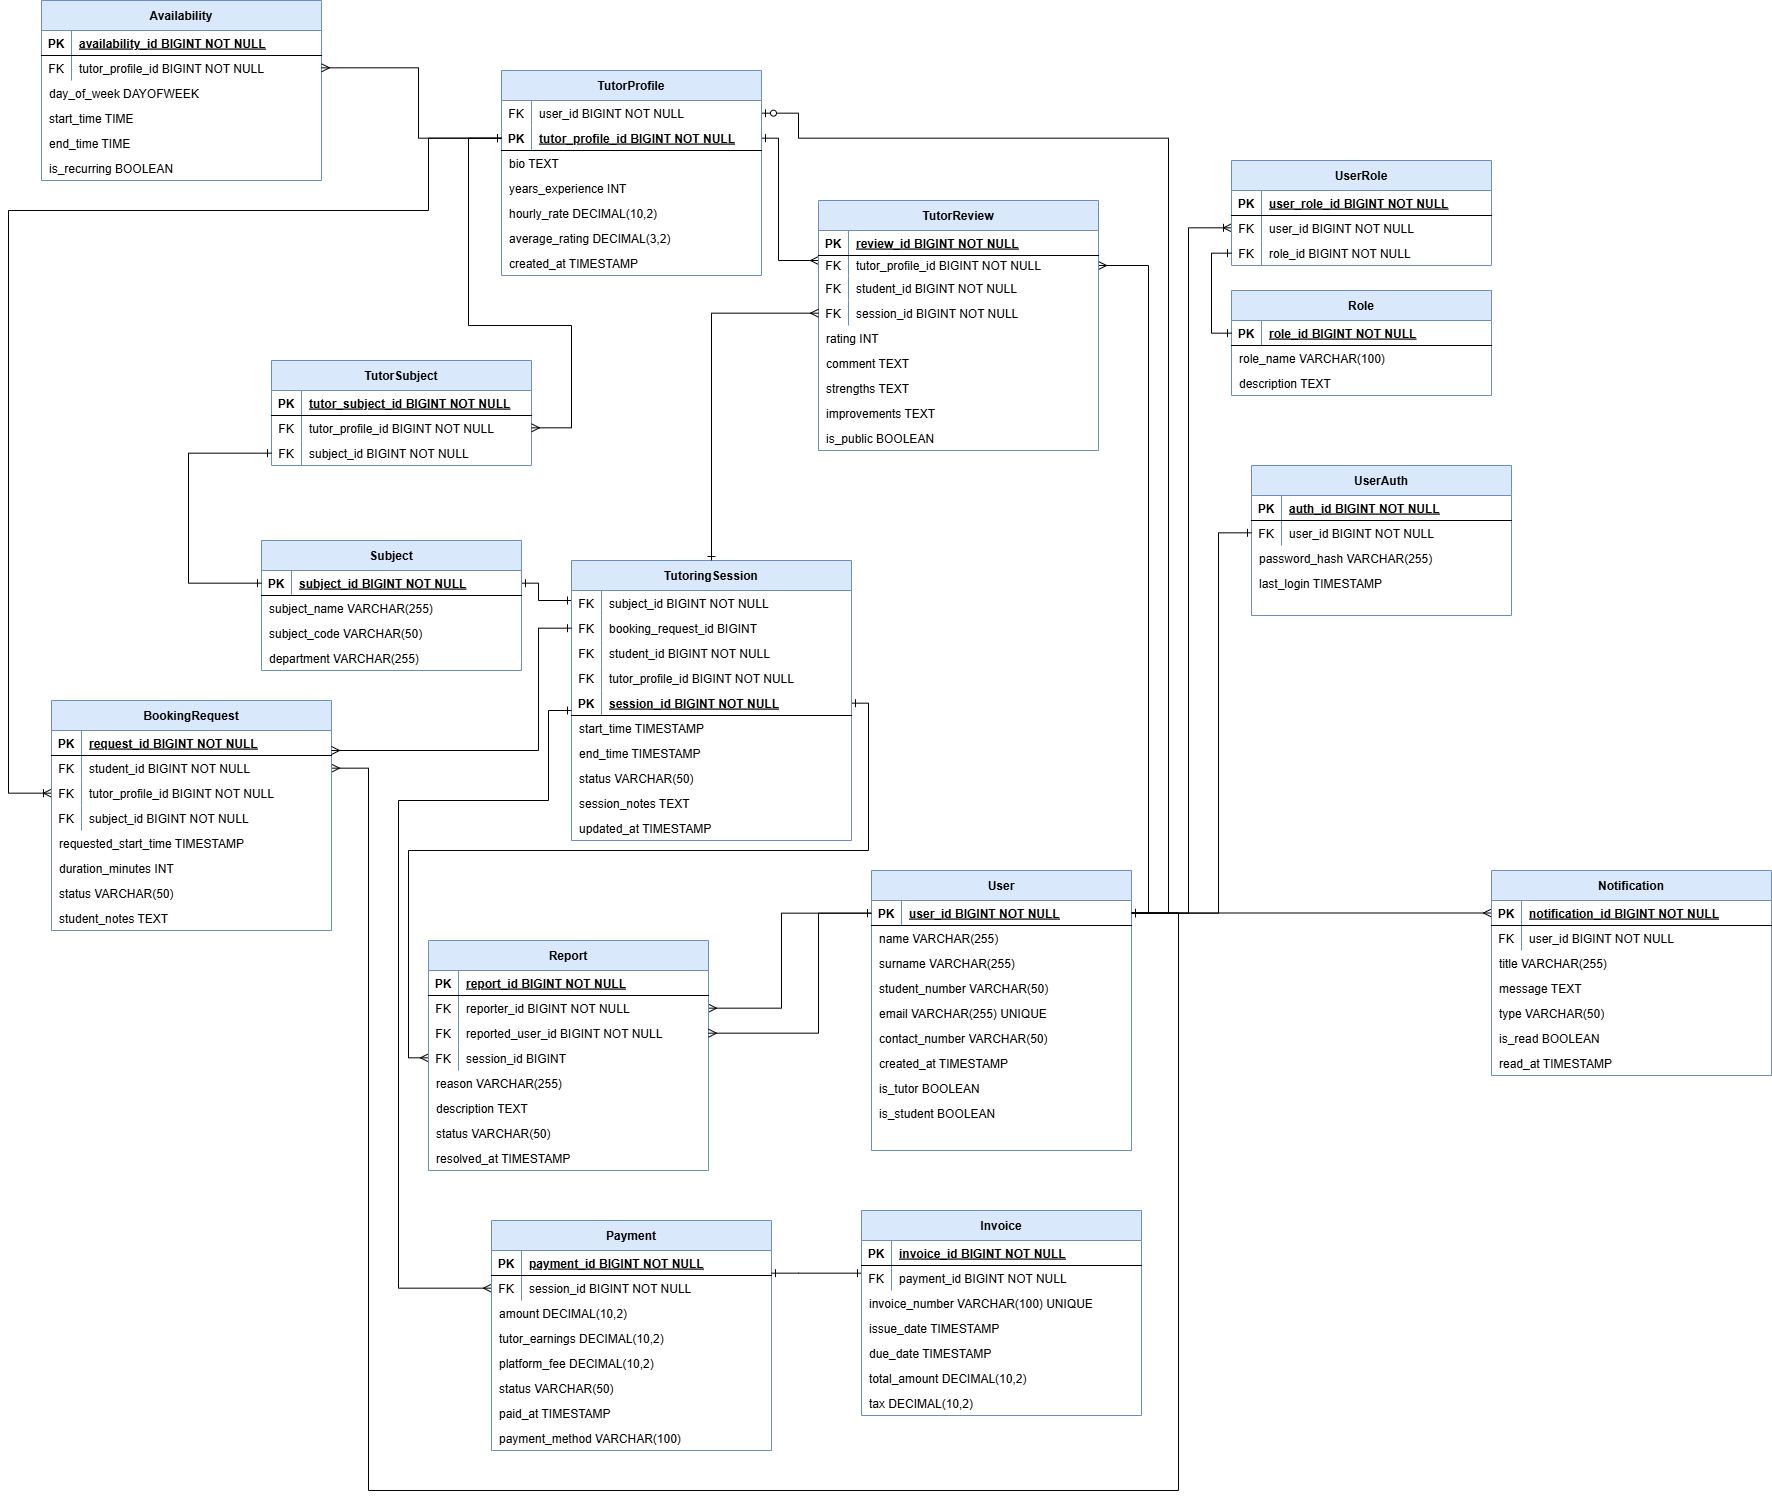
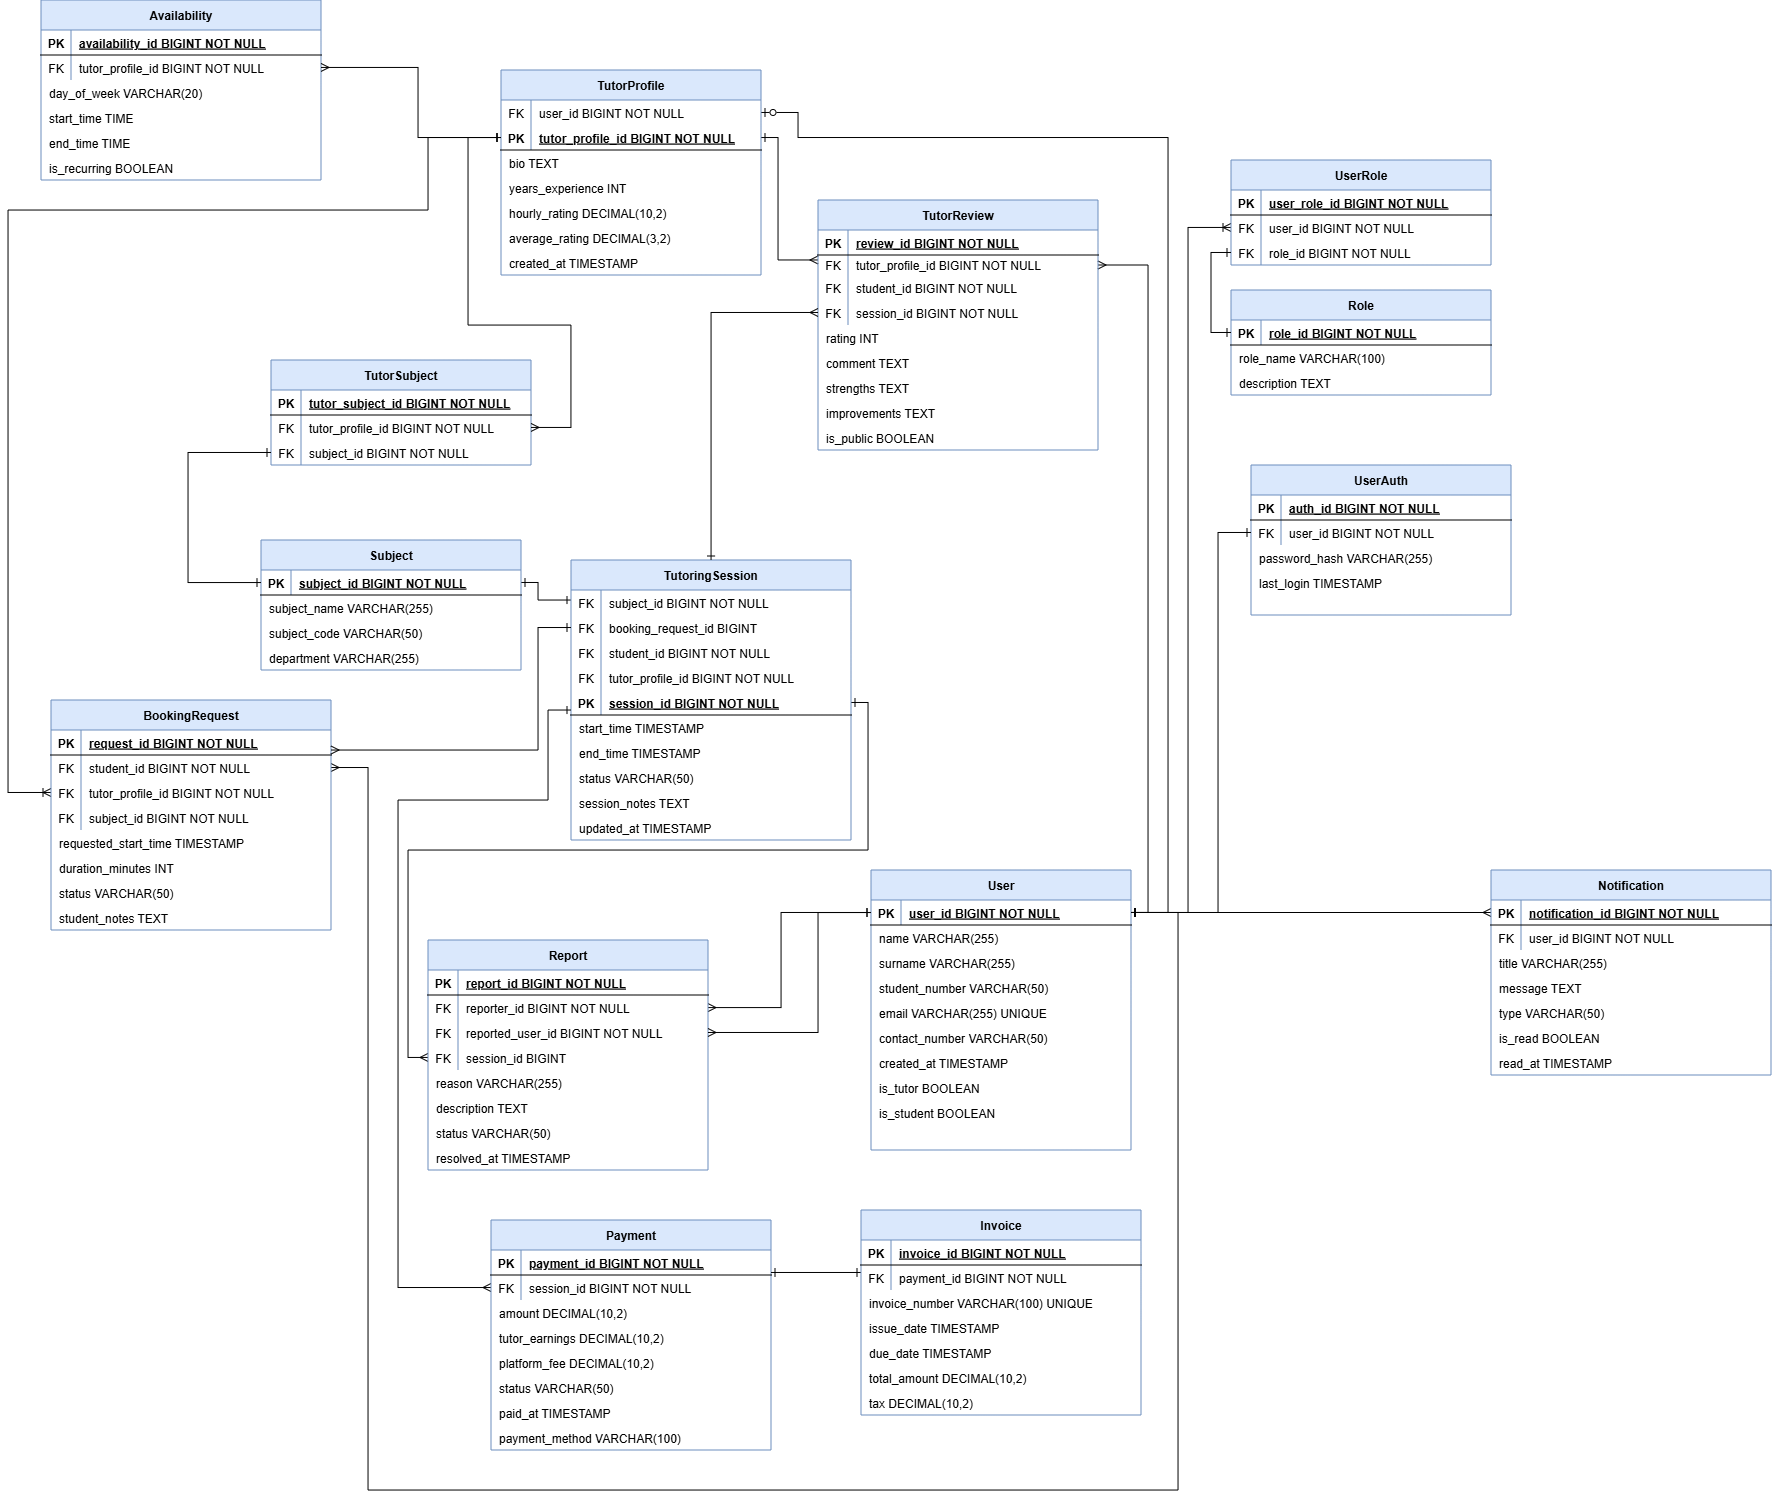
Revert "Diagram updates"

diff --git a/src/main/java/za/ac/cput/EduConnectMain.java b/src/main/java/za/ac/cput/EduConnectMain.java
@@ -7,10 +7,12 @@ public class EduConnectMain {
 }
 
 /* Team members
+
     Reotshepile Stock (230875807)
     Nolwazi Zulu (220118876)
     Ayabonga Jervasio Yawa (221241558)
     Esaile Franck Siani Djiakeng (220274142)
-    Lesego Kutlwano Tshabalala (240263952)
+    Ayabonga Jervasio Yawa (221241558)
     Charlton Solomons (220483418)
+
 */

diff --git a/src/main/java/za/ac/cput/enums/ReviewRating.java b/src/main/java/za/ac/cput/enums/ReviewRating.java
@@ -1,0 +1,9 @@
+package za.ac.cput.enums;
+
+public enum ReviewRating {
+    ONE,
+    TWO,
+    THREE,
+    FOUR,
+    FIVE
+}
